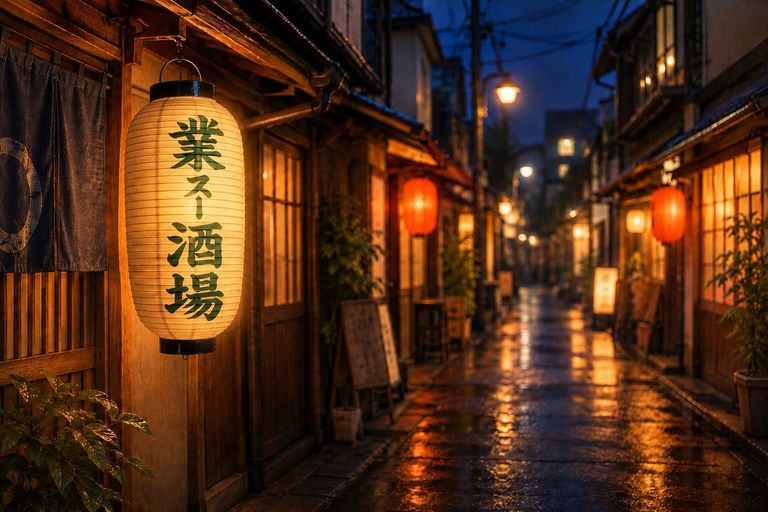
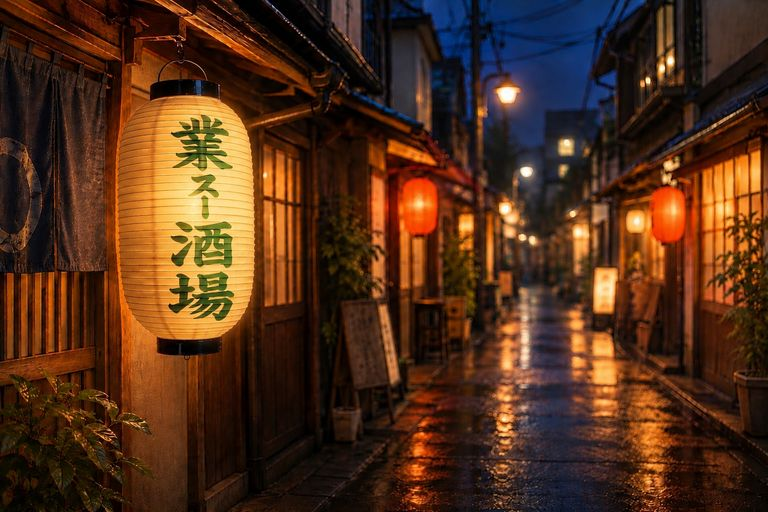
ページ上部の絵を、提灯をふっくらさせた版（v7）に差し替える
店頭の長型提灯の標準（9号 約2.2：1、12号 約1.9：1）に比べて v6 は細長かった
ため、横幅を約15％太くし、縦横比を約2.0：1 にした版。

Claude-Session: https://claude.ai/code/session_01NVsEU1RmB8DQTccszYKfjE

diff --git a/design/README.md b/design/README.md
@@ -6,8 +6,8 @@
 | `chochin-prompt.md` | 提灯の絵を ChatGPT に頼むプロンプト |
 | `chochin-chatgpt-original.png` | ChatGPT が作った提灯の絵（2026-10-31）。採用。「スー」は縦中横（横並び）、背景は黒（夜に灯っている表現） |
 | `alley-prompt.md` | 夜の路地の絵（ページ上部の背景）を ChatGPT に頼むプロンプト |
-| `alley-lantern-text-prompt.md` | 路地の絵の提灯の文字を、曲面と灯りになじませて描き直してもらうプロンプト（2026-11-01、5回） |
-| `alley-lantern-text-v2.png`〜`v6.png` | その描き直しの途中の絵。**v6 を採用**し、ページ上部の絵を差し替えた |
+| `alley-lantern-text-prompt.md` | 路地の絵の提灯の文字を、曲面と灯りになじませて描き直してもらうプロンプト（2026-11-01〜02、6回） |
+| `alley-lantern-text-v2.png`〜`v7.png` | その描き直しの途中の絵。**v7 を採用**（提灯の縦横比 約2：1）し、ページ上部の絵を差し替えた |
 | `alley-chatgpt-original.png` | ChatGPT が作った夜の路地の絵（2026-10-31）。採用。ページ上部の背景にした（`site/assets/hero-768.jpg`・`hero-1536.jpg` は縮めて軽くしたもの）。文字を重ねる下の方の暗いグラデーションはページ側（`site/template.html` の `.hero`）でかけている |
 | `logo-chatgpt-original.webp` | ChatGPT が作ったロゴの元の画像（2026-10-30）。文字以外の緑（円・マスの線）があったので、Claude が消して `site/assets/logo-mark.png` にした。アイコン（タブ・ホーム画面）に使う。ページ上部は夜の路地の絵にしたので、ページには出していない |
 

diff --git a/STATUS.md b/STATUS.md
@@ -2,7 +2,7 @@
 
 新しいセッションは、最初にこのファイルを読む。作業や相談で状況が変わったら、最後にこのファイルを更新する。
 
-最終更新: 2026-11-01（初期版の完成）
+最終更新: 2026-11-02（提灯の縦横比）
 
 ## 今の状況
 
@@ -68,6 +68,9 @@
 - 2026-11-01: PR #17 をマージ。路地の絵の提灯の文字が平らに見える（曲面・灯りに合っていない）ので、文字だけを描き直してもらうプロンプトを作った → `design/alley-lantern-text-prompt.md`。できたらページ上部の絵を差し替える
 
 - 2026-11-01: 路地の絵の提灯を ChatGPT で5回描き直した（文字を曲面と灯りになじませる → 右側が遠くに見えるように → 提灯を路地の方へ20〜30度回す → 細長くなったので太さを戻す → 文字の緑を「昼はアイコンの緑、夜は暗く沈む」色に、左の端を暗く、文字を中心寄りに）。v6 を採用し、ページ上部の絵を差し替えた → `design/alley-lantern-text-prompt.md`
+
+- 2026-11-01: PR #18 をマージ（ページ上部の絵を v6 に）
+- 2026-11-02: 提灯が縦長に見えるので、店頭の長型提灯の標準を調べた（9号 240×520mm＝約2.2：1、12号 320×600mm＝約1.9：1）。v6 は約2.2〜2.3：1 で細長い側の端。横幅を12％ほど太くしてもらった v7（約2.0：1）を採用し、ページ上部の絵を差し替えた
 
 ## 次にやること
 
